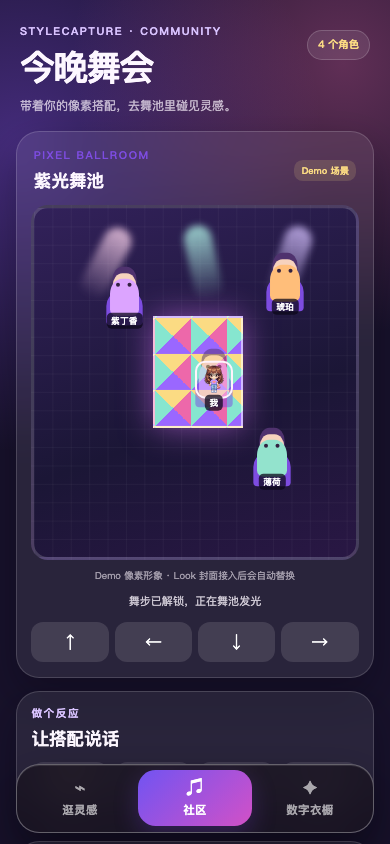
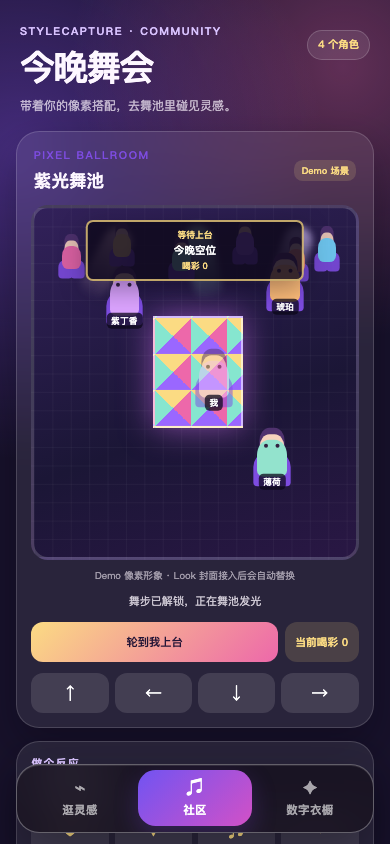
Prove the mobile runway handoff
Extend the Issue #9 browser journey through the runway state so PR #10 carries user-level evidence for the public avatar handoff before share-card export.

Constraint: Task 4 ownership limited changes to the mobile E2E, Issue #9 evidence, and ExecPlan artifacts.

Rejected: Treat runway support as production work | Existing CommunityScreen already exposes the runway behavior; this task needed evidence coverage only.

Confidence: high

Scope-risk: narrow

Directive: Keep future Look artwork integrations behind public RenderArtifact sources, not original reference or private Item media.

Tested: STYLECAPTURE_E2E_BASE_URL=http://127.0.0.1:5174 pnpm exec playwright test e2e/community-ballroom.spec.ts; pnpm --filter @stylecapture/h5 test && pnpm --filter @stylecapture/h5 typecheck && pnpm --filter @stylecapture/h5 build

Not-tested: GitHub Issue/PR remote update was not performed by this Task 4 slice.

diff --git a/apps/h5/e2e/community-ballroom.spec.ts b/apps/h5/e2e/community-ballroom.spec.ts
@@ -26,6 +26,10 @@ test("a mobile user can enter the ballroom, dance, react, inspect a resident, an
   await page.screenshot({ path: evidence("03-community-resident.png"), animations: "disabled" });
   await page.getByRole("button", { name: "关闭紫丁香的公开穿搭" }).click();
 
+  await page.getByRole("button", { name: "轮到我上台" }).click();
+  await expect(page.getByRole("status")).toContainText("正在走秀");
+  await page.screenshot({ path: evidence("08-community-runway.png"), animations: "disabled" });
+
   const download = page.waitForEvent("download");
   await page.getByRole("button", { name: "生成分享卡" }).click();
   const shareCard = await download;

diff --git a/docs/evidence/issue-9/README.md b/docs/evidence/issue-9/README.md
@@ -2,8 +2,8 @@
 
 Viewport: 390 × 844 mobile browser.
 Journey: open the H5 Community tab, tap the central dance floor, send `闪闪`, inspect
-the explicitly non-human resident `紫丁香`, create a PNG share card, and simulate a
-browser Canvas export failure to verify retry recovery.
+the explicitly non-human resident `紫丁香`, enter the runway with `轮到我上台`, create
+a PNG share card, and simulate a browser Canvas export failure to verify retry recovery.
 
 | Evidence | State |
 | --- | --- |
@@ -14,9 +14,20 @@ browser Canvas export failure to verify retry recovery.
 | `05-community-share-failure.png` | Browser export failure shows a retryable action |
 | `06-community-share-recovered.png` | Retrying after the simulated export failure succeeds |
 | `07-community-share-card.png` | Downloaded card includes the current demo avatar, dance state, and reaction |
+| `08-community-runway.png` | Runway state after `轮到我上台`, with the status live region showing `正在走秀` |
 
 Fresh browser evidence: `STYLECAPTURE_E2E_BASE_URL=http://127.0.0.1:5174 pnpm exec
 playwright test e2e/community-ballroom.spec.ts` produced 2 passing tests.
+
+Fresh H5 verification: `pnpm --filter @stylecapture/h5 test && pnpm --filter
+@stylecapture/h5 typecheck && pnpm --filter @stylecapture/h5 build` produced 9
+passing Vitest files / 35 tests, a clean TypeScript check, and a successful production
+Vite build.
+
+RenderArtifact handoff boundary: this evidence still uses the labelled `Demo 像素形象`
+avatar source. The Community UI accepts a future public Look RenderArtifact once Issue
+#3/#5 provides it, but this Issue #9 journey does not expose original reference images
+or private Item media in the browser, screenshots, or downloaded card.
 
 Visual verdict:
 
@@ -33,6 +44,6 @@ Visual verdict:
     "Keep future community scenes on the same purple-pink palette and retain the labelled resident treatment.",
     "Reassess navigation density before adding a fourth primary destination."
   ],
-  "reasoning": "The mobile scene retains the established StyleCapture pixel-purple identity while making movement, dance, public-only resident information, share-state feedback, and the downloaded avatar card visually legible."
+  "reasoning": "The mobile scene retains the established StyleCapture pixel-purple identity while making movement, dance, runway state, public-only resident information, share-state feedback, and the downloaded avatar card visually legible."
 }
 ```

diff --git a/docs/exec-plans/0009-community-dance-demo.md b/docs/exec-plans/0009-community-dance-demo.md
@@ -60,7 +60,8 @@ same public `CommunityPresence` contract.
 - [x] Four reactions are usable and visible.
 - [x] Resident identity is explicitly non-human and exposes only public tags.
 - [x] Share card has working download and recoverable failure state.
-- [x] Mobile screenshots and fresh automated evidence are captured.
+- [x] Mobile screenshots and fresh automated evidence are captured, including the runway
+  state after `轮到我上台`.
 
 ## Progress
 
@@ -77,8 +78,10 @@ same public `CommunityPresence` contract.
 - [x] 2026-07-25: Independent reviews required an explicit avatar-source seam, truthful
   non-live presence copy, a scene-faithful share card, and modal keyboard/reader support;
   all were incorporated before final verification.
-- [x] 2026-07-25: Fresh full H5 suite (9 files / 32 tests), typecheck, production build,
+- [x] 2026-07-25: Fresh full H5 suite (9 files / 35 tests), typecheck, production build,
   and two mobile Playwright journeys passed after the final accessibility update.
+- [x] 2026-07-25: Extended the mobile Playwright journey through `轮到我上台`, asserted
+  the `正在走秀` live-region status, and captured `08-community-runway.png` at 390×844.
 - [ ] Update Issue, commit, push, and open the experience PR.
 
 ## Surprises & Discoveries
@@ -97,6 +100,9 @@ same public `CommunityPresence` contract.
   `CommunityAvatarSource` seam is deliberately visible as `Demo 像素形象` rather than
   implying a per-Look cover is already present. It accepts the future public artifact URL
   without exposing an original reference image.
+- 2026-07-25: Runway evidence uses the same public avatar-source boundary. It verifies the
+  user-facing handoff point for a future public Look RenderArtifact without changing the
+  browser contract or leaking private Item/reference media.
 
 ## Decision Log
 
